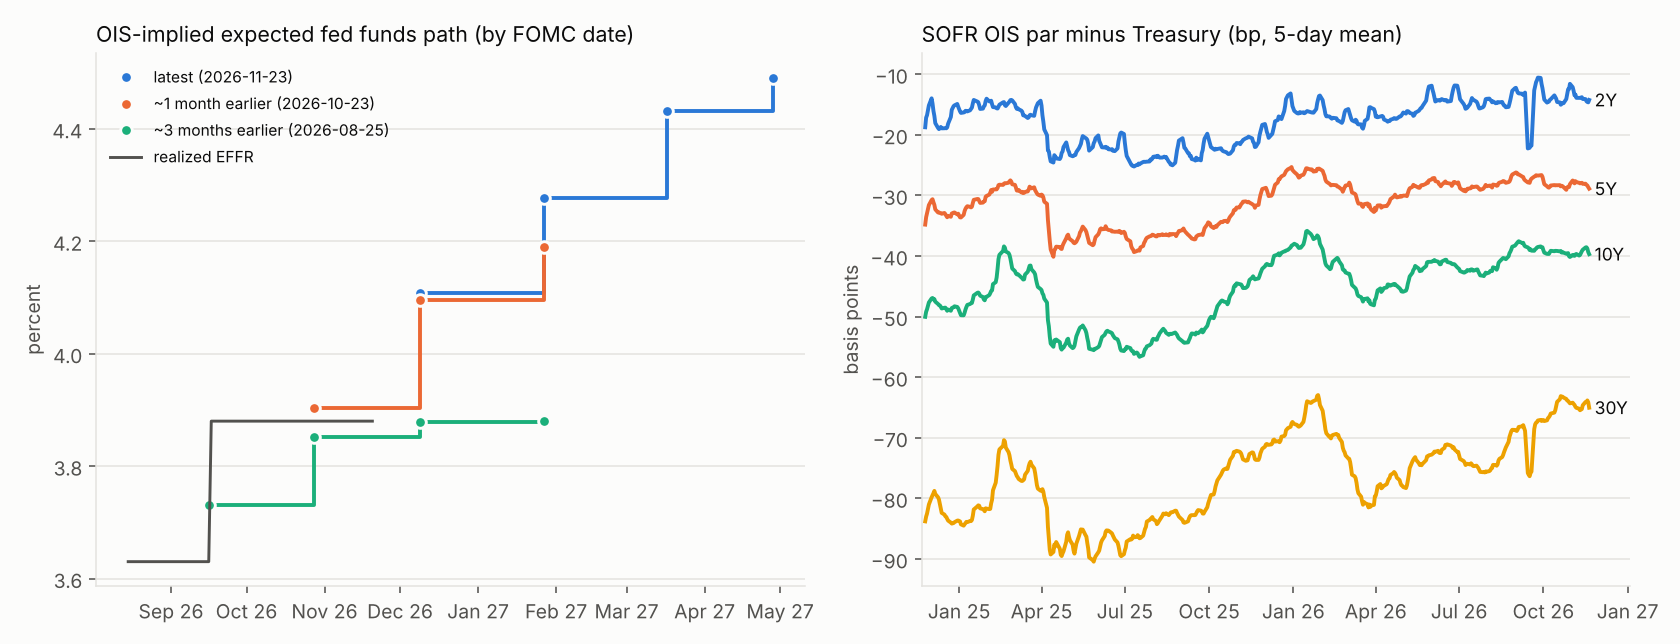
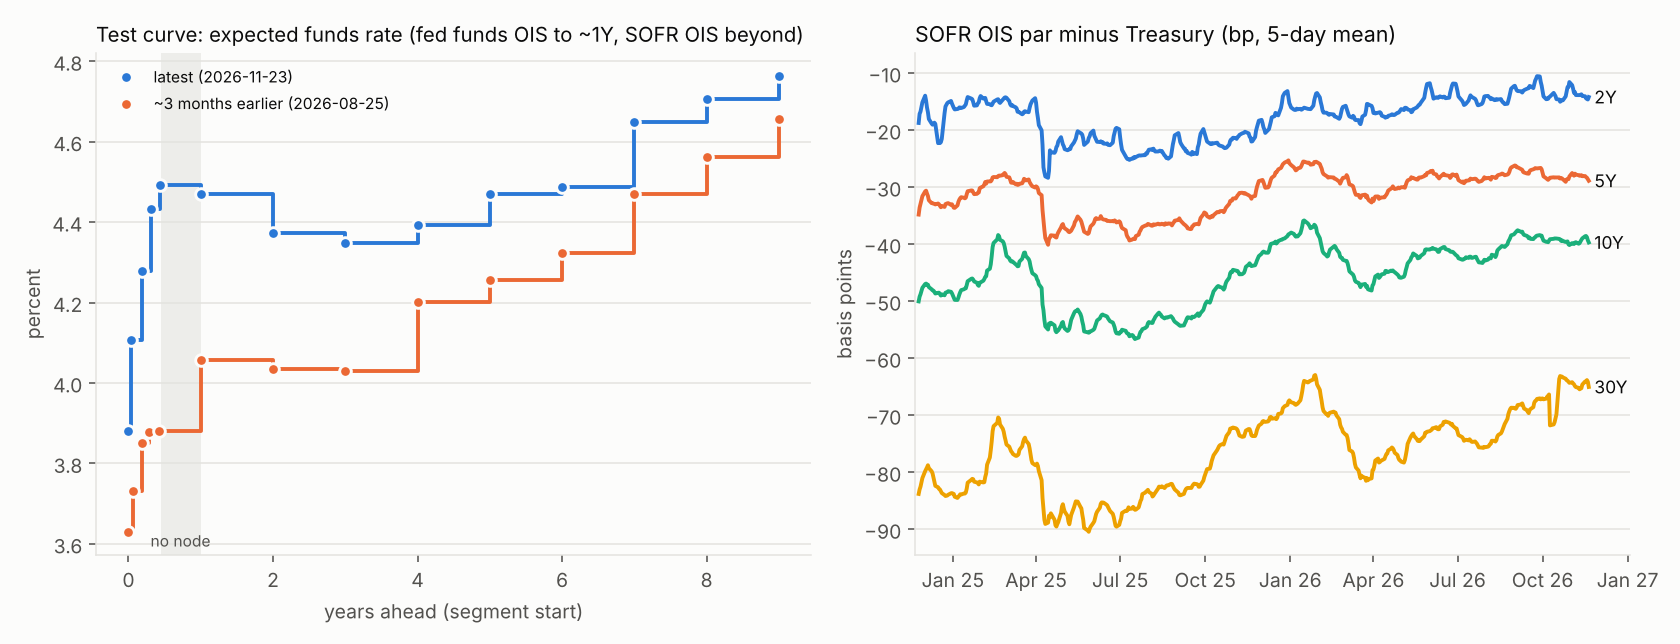
Filter off-market swaps; add combined test expected-funds-rate curve
Drops trades >15bp from their day/tenor median (off-market coupons that
corrupted some par closes). New dtcc_expected_curve_daily.csv: published EFFR,
meeting-by-meeting fed funds OIS nodes to ~1Y, annual SOFR OIS forwards 1Y-10Y.
Testing only; documented caveats in README.

Claude-Session: https://claude.ai/code/session_0188nQGZ4YD7DmkHT2cWEdz3

diff --git a/scripts/07_build_dtcc_ois_curves.py b/scripts/07_build_dtcc_ois_curves.py
@@ -12,6 +12,9 @@ Outputs (in --data-dir):
                                   forwards, fed funds OIS preferred, SOFR OIS
                                   (basis-adjusted to EFFR) where fed funds is thin
   dtcc_sofr_par_daily.csv         SOFR OIS par curve (spot-starting, by tenor)
+  dtcc_expected_curve_daily.csv   TEST combined curve: EFFR now, meeting nodes to
+                                  ~1Y (fed funds OIS), annual SOFR OIS forwards
+                                  from 1Y out to --max-years
 
 Method
   * Trade date = execution date in America/New_York; "close" = median over the
@@ -46,6 +49,8 @@ import numpy as np
 import pandas as pd
 
 WINDOWS = [("15:00", "17:00"), ("13:00", "17:00"), ("00:00", "24:00")]
+OFF_MARKET_BP_PAR = 15   # drop par-curve trades >15bp from the day/tenor median
+OFF_MARKET_BP_FWD = 15   # same for meeting-interval trades
 TENORS = {"1Y": 1, "18M": 1.5, "2Y": 2, "3Y": 3, "4Y": 4, "5Y": 5, "7Y": 7,
           "10Y": 10, "15Y": 15, "20Y": 20, "30Y": 30}
 
@@ -102,6 +107,19 @@ def time_mask(t, w):
     return (t["mins"] >= h0 * 60 + m0) & (t["mins"] < h1 * 60 + m1)
 
 
+def drop_off_market(t, keys, thr_bp, min_group=5):
+    """Drop trades far from their own (day, bucket) all-day median.
+
+    The tape contains off-market-coupon swaps (ladders at a fixed rate well away
+    from par, 8-15% coupons, etc.) that would otherwise contaminate medians on
+    thin buckets. Groups with fewer than min_group trades are left untouched
+    (no reference to judge against)."""
+    ref = t.groupby(keys)["rate_pct"].transform("median")
+    cnt = t.groupby(keys)["rate_pct"].transform("size")
+    bad = (cnt >= min_group) & ((t["rate_pct"] - ref).abs() * 100 > thr_bp)
+    return t[~bad]
+
+
 def window_median(t, keys, min_trades):
     """Per-key median/count over the narrow window, widening if too thin."""
     out = []
@@ -146,7 +164,11 @@ def meeting_forwards(t, meetings, min_trades, exclude_packages):
     # for stub, key on end meeting only (start varies by trade); for meeting use both
     allt["start_key"] = np.where(allt["kind"] == "stub", pd.NaT, allt["start"])
     allt["start_key"] = pd.to_datetime(allt["start_key"])
-    res = window_median(allt, ["date", "product", "kind", "end_key", "start_key"], min_trades)
+    keys = ["date", "product", "kind", "end_key", "start_key"]
+    allt = drop_off_market(allt.assign(start_key=allt["start_key"].fillna(pd.Timestamp(0))),
+                           keys, OFF_MARKET_BP_FWD)
+    allt["start_key"] = allt["start_key"].replace(pd.Timestamp(0), pd.NaT)
+    res = window_median(allt, keys, min_trades)
     res = res.rename(columns={"end_key": "end", "start_key": "start"})
     return res
 
@@ -164,6 +186,7 @@ def par_curve(t, min_trades):
     s["tenor"] = lab
     s = s.dropna(subset=["tenor"])
     s = s[s["rate_pct"].between(-1, 15)]
+    s = drop_off_market(s, ["date", "tenor"], OFF_MARKET_BP_PAR)
     res = window_median(s, ["date", "tenor"], min_trades)
     order = {k: i for i, k in enumerate(TENORS)}
     return res.sort_values(["date", "tenor"], key=lambda c: c.map(order) if c.name == "tenor" else c)
@@ -346,6 +369,28 @@ def report(t, fwd, path, basis, data_dir, min_trades):
             n="size", mean="mean", mae=lambda s: s.abs().mean()).round(1).to_string())
 
 
+def build_curve(path, horizon_days=365):
+    """Combined expected-funds-rate test curve, one row per date x segment:
+    node 0 published EFFR; meeting-by-meeting nodes starting within
+    `horizon_days` (fed funds OIS preferred, SOFR OIS basis-adjusted where fed
+    funds is thin); then annual SOFR OIS forwards from year 1 onward
+    (EFFR-equivalent via a short-end basis -- an assumption for long horizons)."""
+    now = path[path["meeting_no"] == 0].copy()
+    now["horizon_start"], now["horizon_end"] = now["date"], now["date"]
+    m = path[(path["meeting_no"] >= 1)
+             & ((path["node_start"] - path["date"]).dt.days <= horizon_days)].copy()
+    m["horizon_start"], m["horizon_end"] = m["node_start"], m["node_end"]
+    a = path[path["fwd_start_yrs"].notna() & (path["fwd_start_yrs"] >= 1)].copy()
+    a["horizon_start"] = a["date"] + pd.to_timedelta(a["fwd_start_yrs"] * 365.25, unit="D")
+    a["horizon_end"] = a["date"] + pd.to_timedelta(a["fwd_end_yrs"] * 365.25, unit="D")
+    c = pd.concat([now, m, a], ignore_index=True)
+    c["years_ahead"] = ((c["horizon_start"] - c["date"]).dt.days / 365.25).round(2)
+    c = c.rename(columns={"exp_rate": "expected_rate_pct", "basis": "basis_used_pct"})
+    cols = ["date", "node", "horizon_start", "horizon_end", "years_ahead",
+            "expected_rate_pct", "source", "window", "n_trades", "basis_used_pct"]
+    return c[cols].sort_values(["date", "horizon_start"]).reset_index(drop=True)
+
+
 def forward_report(path, effr):
     f1 = path[path["node"] == "fwd 0Y-1Y"].set_index("date")["exp_rate"]
     rows = []
@@ -415,6 +460,7 @@ def main():
     par.to_csv(dd / "dtcc_sofr_par_daily.csv", index=False)
     path, basis = build_path(fwd, par, meetings, load_effr(dd), args.max_years)
     path.to_csv(dd / "dtcc_expected_path_daily.csv", index=False)
+    build_curve(path).to_csv(dd / "dtcc_expected_curve_daily.csv", index=False)
     print(f"wrote {len(fwd)} forward rows, {len(par)} par rows, {len(path)} path nodes")
     if args.report:
         report(t, fwd, path, basis, dd, args.min_trades)

diff --git a/README.md b/README.md
@@ -38,11 +38,20 @@ scripts/06_fetch_dtcc_ois.py          fetch + cache every cleared USD SOFR / fed
 scripts/07_build_dtcc_ois_curves.py   derive curves from the cache (re-runnable without refetching)
 ```
 
-Outputs under `data/` (gitignored): `dtcc_expected_path_daily.csv` (one node
-per FOMC interval + longer pillar forwards), `dtcc_meeting_fwd_daily.csv`,
+Outputs under `data/` (gitignored): `dtcc_expected_curve_daily.csv` (TEST
+combined curve: published EFFR, meeting-by-meeting fed funds OIS nodes to ~1Y,
+annual SOFR OIS forwards from 1Y to 10Y), `dtcc_expected_path_daily.csv`
+(all nodes before assembly), `dtcc_meeting_fwd_daily.csv`,
 `dtcc_sofr_par_daily.csv` (2Y/5Y/10Y/30Y etc.), `dtcc_meeting_calendar.csv`.
 `python3 07_build_dtcc_ois_curves.py --report` prints coverage, package-vs-
 outright, forecast-error-vs-realized-EFFR and SOFR-OIS-vs-Treasury diagnostics.
+
+Testing-grade caveats: the combined curve has no node for roughly months 6-12
+(meeting nodes thin out; the annual forwards start at 1Y); SOFR OIS is
+converted to EFFR-equivalent with a short-end basis (~2bp median) that is an
+assumption at long horizons, where forwards also contain term premia; long
+forwards are differenced from interpolated par rates, so day-to-day noise is
+~4-7bp. Off-market-coupon swaps (>15bp from the day/tenor median) are dropped.
 
 Key caveats: DTCC retains only a rolling ~2 years of files, so run `06`
 regularly -- the per-day cache under `data/dtcc/trades/` is the archive.
